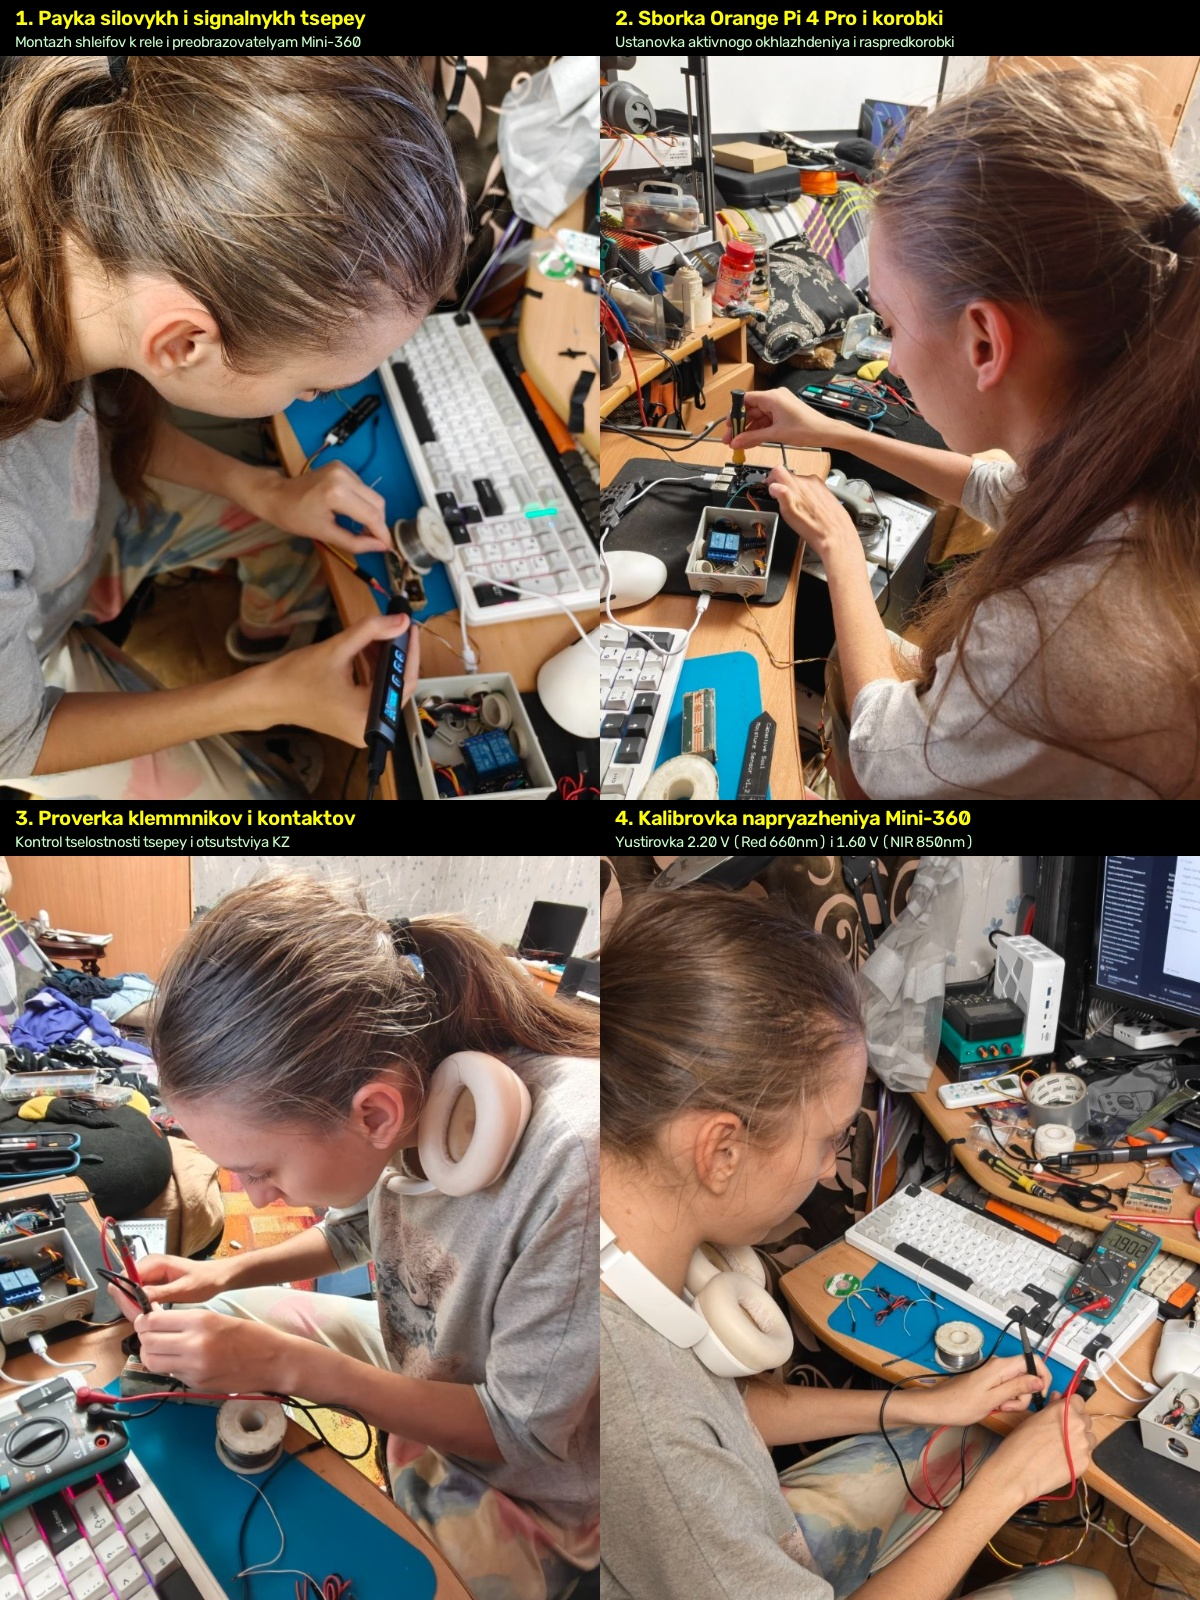
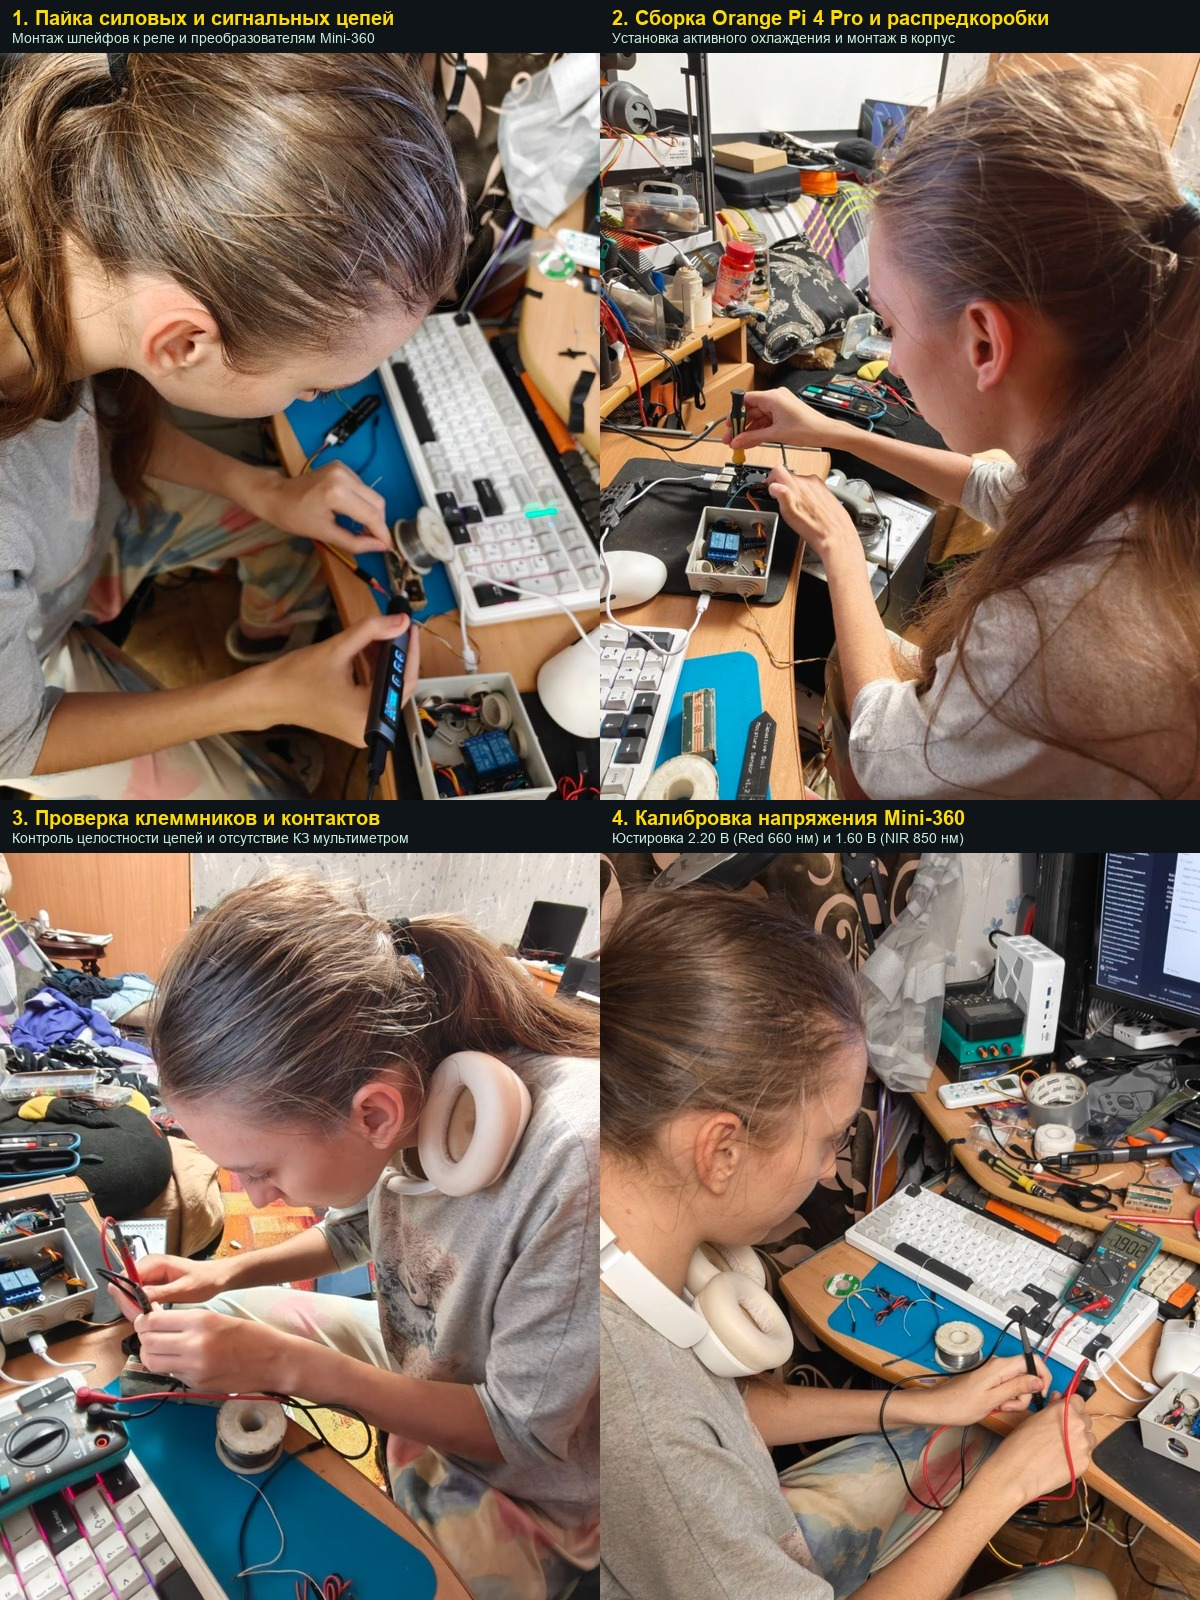
docs: remove author photos from README landing page, update collage labels to Russian

diff --git a/README.md b/README.md
@@ -63,11 +63,6 @@
 > Комплекс функционирует на базе одноплатного микрокомпьютера **Orange Pi 4 Pro V1.3.2** под управлением Armbian Linux 6.1 с активным оверлеем ядра **I2C-0** (`sun60i-a733-i2c0.dtbo`). Вся электроника (Orange Pi, 2-канальное реле, 16-битный АЦП ADS1115 и понижающие преобразователи Mini-360) смонтирована в **герметичной распределительной коробке**, исключающей паразитную засветку бокса от светодиодов индикации и защищающей схемы от влаги.  
 > **Единая линия питания 5В 3А**: микрокомпьютер запитан через порт USB Type-C, а преобразователи Mini-360 запитаны напрямую с силовой гребенки платы (Pin 2: +5В для реле и Mini-360 №1 Red 2.20В; Pin 4: +5В для Mini-360 №2 NIR 1.60В). Стабильность гарантируется импульсным разнесением вспышек. Цифровой сенсор **Sensirion SHT30** (`0x44`) вынесен на шлейфе I2C непосредственно в зону растений на уровень листового полога (для исключения погрешности от нагрева процессора). Полная схема доступна в [docs/Схема_подключения_электроники_Orange_Pi.pdf](docs/Схема_подключения_электроники_Orange_Pi.pdf).
 
-<div align="center">
-  <img src="docs/images/alisa_hardware_assembly_quad.jpg" width="100%" alt="Физическая сборка аппаратной платформы автором проекта Ковалевой Алисой" style="border-radius: 12px; border: 1px solid rgba(0, 164, 153, 0.2); box-shadow: 0 4px 16px rgba(0,0,0,0.06);" />
-  <p><i>Рис. 1. Физическая сборка аппаратной платформы автором проекта Ковалевой Алисой: 1 — пайка силовой и сигнальной разводки цифровым паяльником; 2 — монтаж корпуса Orange Pi 4 Pro и распределительной коробки; 3 — инструментальная прозвонка клеммников мультиметром; 4 — юстировка выходных напряжений преобразователей Mini-360 (2.20 В и 1.60 В).</i></p>
-</div>
-
 ---
 
 ## 🔬 Принцип работы и архитектура комплекса
@@ -96,7 +91,7 @@
 
 <div align="center">
   <img src="docs/images/dark_room_strobe_verification.jpg" width="100%" alt="Верификация последовательного 3-кадрового строба в темноте" style="border-radius: 12px; border: 1px solid rgba(0, 164, 153, 0.2); box-shadow: 0 4px 16px rgba(0,0,0,0.06);" />
-  <p><i>Рис. 2. Аппаратно-физическая верификация последовательного 3-кадрового стробирования в темноте (4 щелчка реле за цикл):<br>
+  <p><i>Рис. 1. Аппаратно-физическая верификация последовательного 3-кадрового стробирования в темноте (4 щелчка реле за цикл):<br>
   1 — фоновая комнатная засветка (Ambient, L_amb = 21.4); 2 — раздельная вспышка 660 нм Deep Red (R = 228.6);<br>
   3 — раздельная вспышка 850 нм NIR (фиолетовый световой конус NoIR сенсора); 4 — синтезированная спектральная дифференциальная карта NDVI.</i></p>
 </div>
